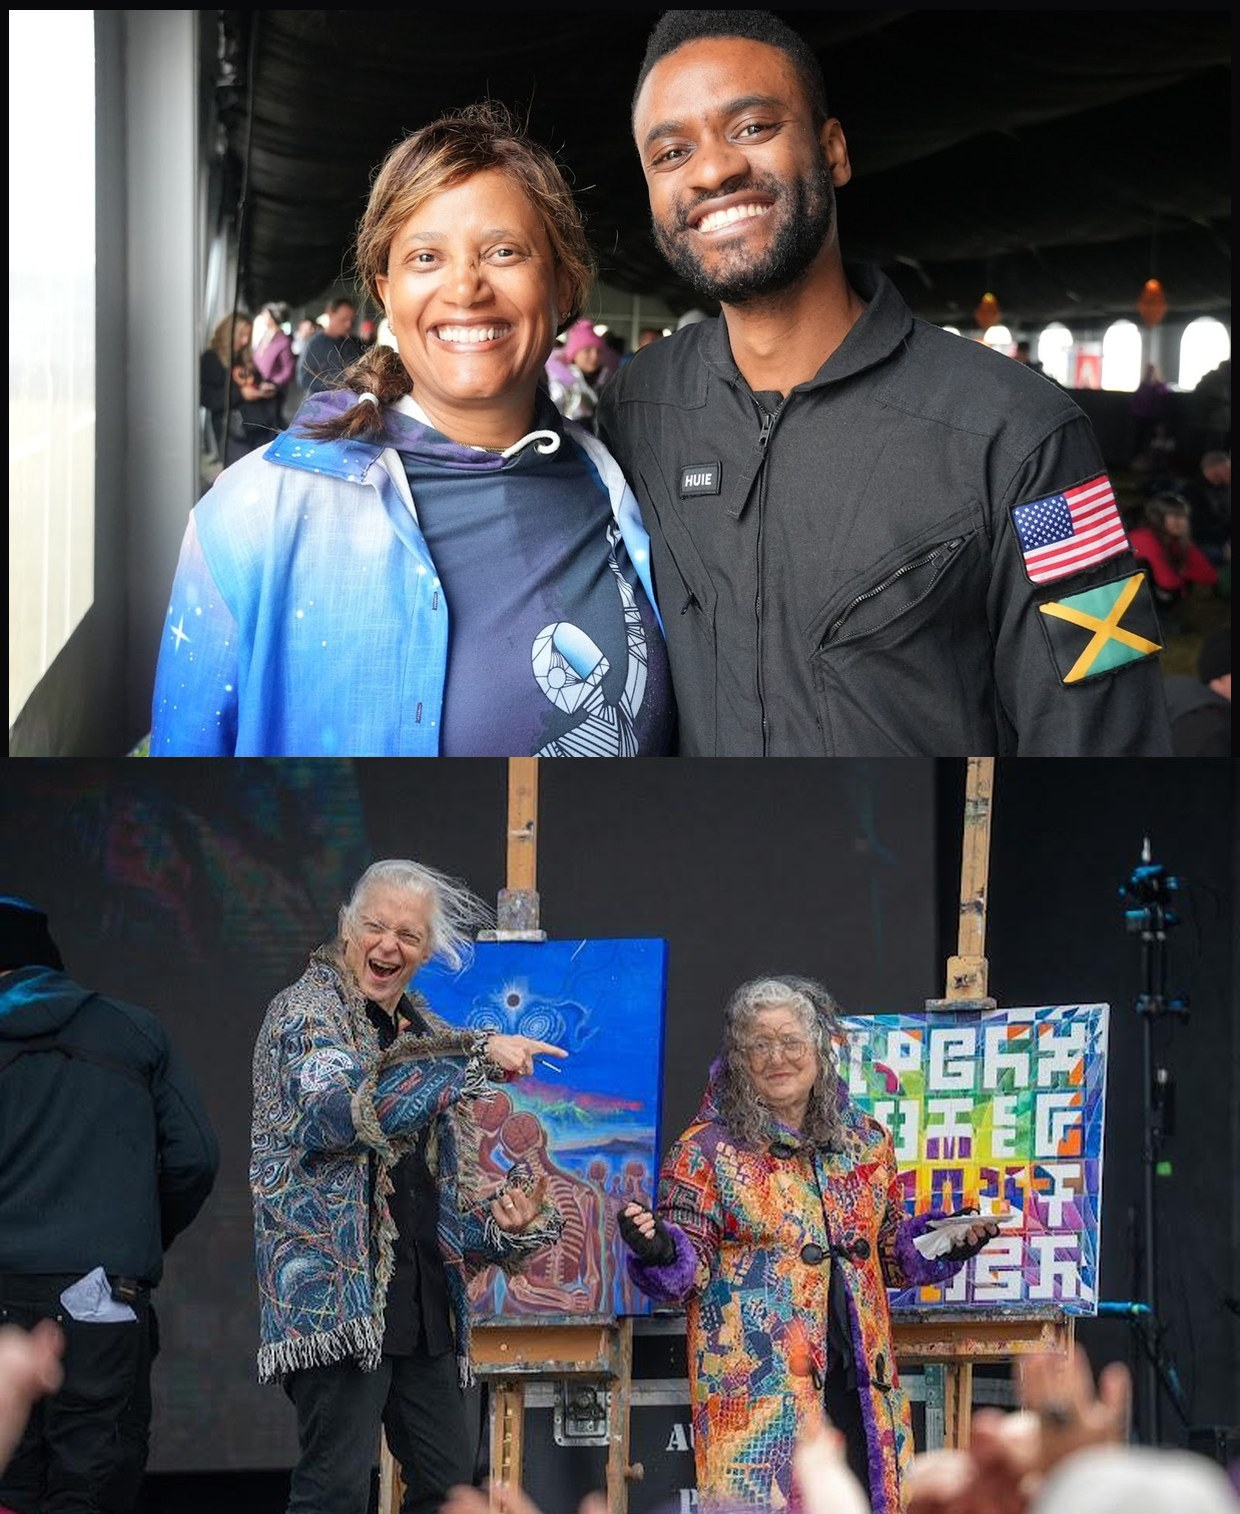
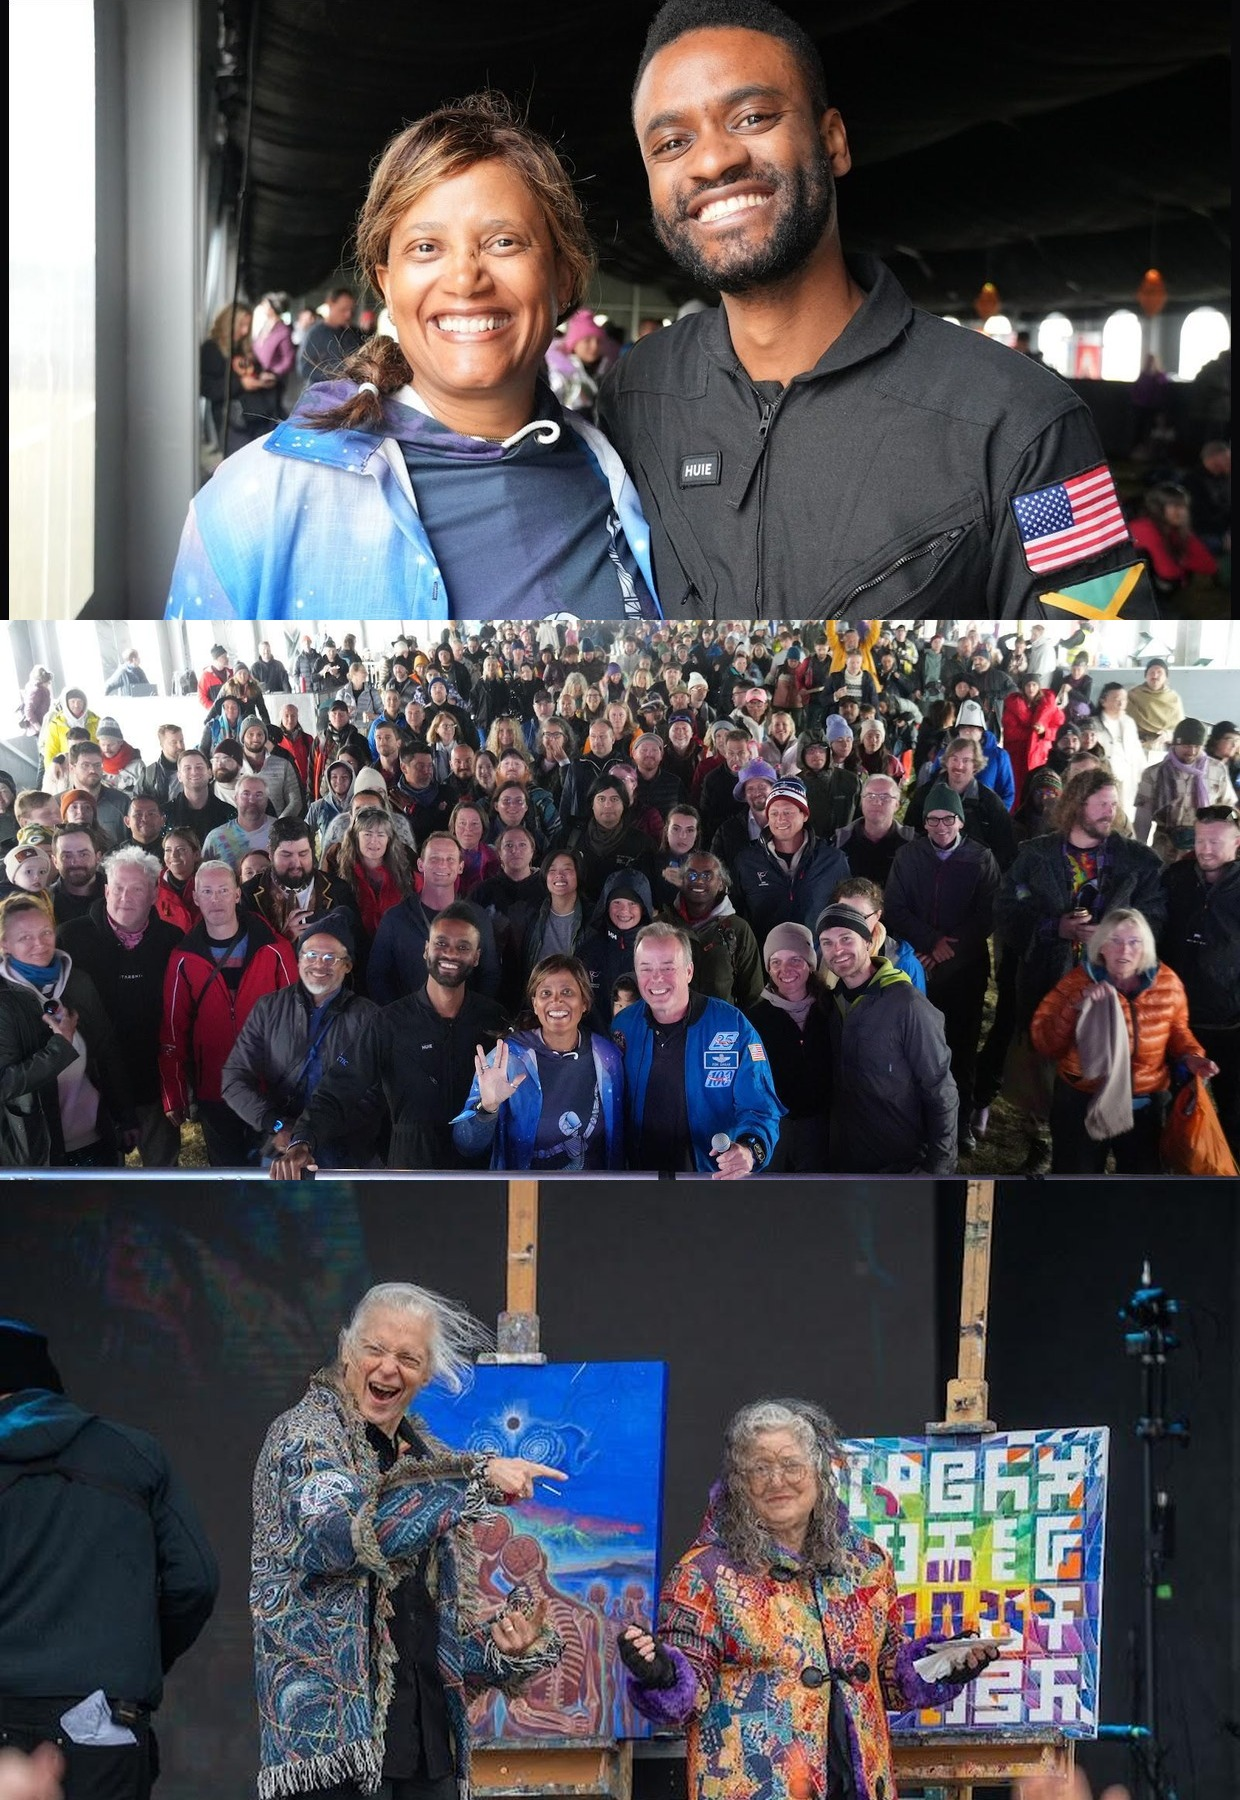
Drop one testimonial; make Our Community a three-layer collage
Remove "My favorite keepsake from Iceland" per Ben's note, leaving five
testimonials, and re-grid so the trailing row of two centres instead of
hanging left.

Add the packed Aurora tent group shot to the Our Community collage,
between the Proctor/Huie portrait and the Greys on stage. The accent slot
for that slide now fits the image rather than cropping it, so all three
panels are shown whole.

diff --git a/index.html b/index.html
@@ -35,6 +35,9 @@
   .accent img{width:100%;height:100%;object-fit:cover;display:block;transition:transform .9s cubic-bezier(.2,.7,.2,1)}
   .slide.active .accent img{animation:slowzoom 9s ease-out both}
   @keyframes slowzoom{from{transform:scale(1.06)}to{transform:scale(1)}}
+  .accent.commcollage{background:none;min-height:0;align-self:stretch;display:flex;justify-content:center;align-items:center}
+  .accent.commcollage img{height:100%;width:auto;max-width:100%;object-fit:contain}
+  .accent.commcollage::after{display:none}
   .accent::after{content:'';position:absolute;inset:0;
     background:linear-gradient(200deg,rgba(9,9,11,0) 55%,rgba(9,9,11,.35));pointer-events:none}
   /* corner logo swaps sides (or hides) per slide instead of shrinking artwork */
@@ -239,12 +242,15 @@
     .voices.vgrid2{grid-template-columns:1fr}
   }
   /* testimonials slide */
-  .voices.vgrid{grid-template-columns:repeat(3,1fr);gap:clamp(1rem,2.4vw,2rem);margin-top:clamp(1.2em,3vh,2em)}
+  .voices.vgrid{grid-template-columns:repeat(6,1fr);gap:clamp(1rem,2.4vw,2rem);margin-top:clamp(1.2em,3vh,2em)}
+  .voices.vgrid .vq{grid-column:span 2}
+  .voices.vgrid .vq:nth-child(4){grid-column:2/span 2}
   .voices.vgrid .vq p{font-size:clamp(.66rem,1.05vw,.92rem);line-height:1.5}
   .voices.vgrid .vq span{font-size:clamp(.46rem,.74vw,.62rem)}
   .voiceslide .softphoto img{opacity:.42}
   .voiceslide .softphoto::after{background:linear-gradient(180deg,rgba(9,9,11,.74) 0%,rgba(9,9,11,.58) 42%,rgba(9,9,11,.82) 100%)}
-  @media (max-width:1024px) and (orientation:portrait){ .voices.vgrid{grid-template-columns:1fr} }
+  @media (max-width:1024px) and (orientation:portrait){ .voices.vgrid{grid-template-columns:1fr}
+    .voices.vgrid .vq,.voices.vgrid .vq:nth-child(4){grid-column:auto} }
   /* press: header + clean image gallery + outlets */
   .press .softphoto img{opacity:.32}
   .press .softphoto::after{background:linear-gradient(120deg,rgba(9,9,11,.9) 0%,rgba(9,9,11,.8) 55%,rgba(9,9,11,.9) 100%)}
@@ -320,6 +326,7 @@
     .pad{overflow-y:auto;justify-content:safe center;padding:9% 6.5%;-webkit-overflow-scrolling:touch}
     .split{display:flex;flex-direction:column;gap:1.1rem;height:auto}
     .accent{display:block;order:-1;flex:none;width:100%;height:auto;min-height:0;max-height:none}
+    .accent.commcollage img{height:auto;width:100%}
     .accent img{height:auto;object-fit:contain}
     .coverwrap{padding:10% 7%}
     h1.word{font-size:clamp(1.5rem,7.4vw,3rem)}
@@ -580,7 +587,6 @@
         <div class="vq"><p>"A fantastic group of future makers."</p><span>@cosmobiologist &middot; 6.1k</span></div>
         <div class="vq"><p>"I love that you captured the beautiful moment we were all having."</p><span>@hippieonahiway &middot; 1.2k</span></div>
         <div class="vq"><p>"Such a cool experience."</p><span>@harley_xcx &middot; 4.1k</span></div>
-        <div class="vq"><p>"My favorite keepsake from Iceland."</p><span>@salenasalinas &middot; 4.6k</span></div>
         <div class="vq"><p>"Amazing work."</p><span>@ascensionacres &middot; 12.1k</span></div>
       </div>
     </div>
@@ -601,7 +607,7 @@
           <div class="tile"><div class="n">53/47</div><div class="l">Male / female split</div></div>
         </div>
       </div>
-      <div class="accent"><img src="assets/community.jpg" alt=""/></div>
+      <div class="accent commcollage"><img src="assets/community.jpg" alt="Iceland Eclipse community: Dr. Sian Proctor with astronaut Huie, the packed Aurora tent, and Alex and Allyson Grey on stage"/></div>
     </div></div>
     <div class="sfoot"><span>Iceland Eclipse 2026 · Recap</span><span>12</span></div>
   </section>

diff --git a/sources/ben-punch-list.md b/sources/ben-punch-list.md
@@ -28,9 +28,9 @@ Status is one of **Done**, **Done, differs**, or **Open**.
 | B8 | p8 Side Quests: like it | Done | Kept, and three of its four images upgraded to real side-quest photography: Emiliana Torrini in the lava cave, sunrise yoga, the grand piano at the waterfall. |
 | B9 | p9: very cool | Done | Digital Reach kept. |
 | B10 | p10: CNN and testimonials are different things, move CNN to the press slide | Done | CNN clip is now on In the Press; Testimonials is standalone and full width. |
-| B11 | p10: change "My favorite keepsake from Iceland" | Done, differs | It was replaced, then came back. @salenasalinas at 4.6k is one of the few guest quotes clearing the 1,000-follower bar Lee set afterwards. Flagging the conflict rather than picking silently. |
-| B12 | p10: add more testimonials | Done | Six on the slide. |
-| B13 | p10: show follower counts "if they have a lot of them" | Done | All six now exceed 1,000 and each count is printed next to the handle. |
+| B11 | p10: change "My favorite keepsake from Iceland" | Done | Dropped entirely on Lee's instruction (2026-09-04). Testimonials now number five, with the last row centred. |
+| B12 | p10: add more testimonials | Done, differs | Five on the slide after B11 was dropped. |
+| B13 | p10: show follower counts "if they have a lot of them" | Done | All five exceed 1,000 and each count is printed next to the handle. |
 | B14 | p11 Our Community: very good | Done | Unchanged. |
 | B15 | p12 Trilogy: looks great | Done | Unchanged, moved after Midnight Sun. |
 | B16 | p13 Ceremonies: move back to the end of the festival section | Done | Now slide 8, last in that section. |
@@ -40,6 +40,5 @@ Status is one of **Done**, **Done, differs**, or **Open**.
 | # | Item | Detail |
 |---|---|---|
 | O1 | **4,200 participants vs 3,333 guests** | The deck says 4,200. imxp.org/iceland-eclipse, IMXP's own published recap, says 3,333 Guests. Mitch reviewed the 4,200 figure on video and did not object, so it was left. These cannot both be right and the deck is public. Needs Mitch to say which number is the real one. |
-| O2 | **Digital Reach figures are not from Google Analytics** | 1.5M page views, 750k unique visitors, 100k+ email, 44k+ Instagram all come from the partnership deck appendix. Mitch asked for real GA numbers off the Iceland Eclipse site. Not yet pulled; needs GA access. |
-| O3 | **Testimonial quality vs follower count** | The >1,000 rule removed the four best-written quotes. What clears the bar is thinner: "Amazing work.", "Such a cool experience." The single best high-follower quote available, @naturalsymphonylive at 9k, is a credited Afterglow performer and so is excluded as talent. If Ben's goal was social proof, the current six deliver it; if it was warmth, the deck got weaker. Lee's call. |
-| O4 | **One Instagram message request unread** | 14 of 15 requests on @imxp_mitch were accepted and mined. The 15th is from an account Mitch has blocked, so Instagram refuses the accept. Unblocking is Mitch's call. |
+| O2 | **Digital Reach figures are not from Google Analytics** | 1.5M page views, 750k unique visitors, 100k+ email, 44k+ Instagram all come from the partnership deck appendix. **Attempted 2026-09-04 via Chrome (Browser 1).** Google Analytics opened already signed in, but that Google account can see exactly one GA account, "Cloon LLC", holding one property (505390702, measurement ID G-82NMBR4YTN) which reports "No data received from your website yet". There is no Iceland Eclipse or icelandeclipse.com property visible from this account, so no real figures could be pulled. Needs either the Google account that owns the Iceland Eclipse property, or someone to grant that account access. |
+| O3 | **Testimonial quality vs follower count** | The >1,000 rule removed the four best-written quotes, and B11 removed a fifth. What clears the bar is thinner: "Amazing work.", "Such a cool experience." The single best high-follower quote available, @naturalsymphonylive at 9k, is a credited Afterglow performer and so is excluded as talent. Five quotes now stand where six did. Live with it, or relax one of the two rules. |

diff --git a/sources/ben-feedback-2026-09-04.md b/sources/ben-feedback-2026-09-04.md
@@ -98,3 +98,21 @@ The Testimonials slide had one extra `</div>`, which pushed its footer outside t
 `<section>`. That footer was therefore never hidden, and painted on top of every other
 slide's footer on every slide. It was visible as doubled, overlapping footer text.
 Fixed; footer text now renders once per slide.
+
+## Lee's follow-ups, 2026-09-04 (later)
+
+- **Dropped @salenasalinas "My favorite keepsake from Iceland"** per Ben's B11, rather
+  than rewriting it. Testimonial wall is now five: @ascensionacres 12.1k,
+  @cosmobiologist 6.1k, @harley_xcx 4.1k, @tinabrummer_balance 1.9k, @hippieonahiway 1.2k.
+  The grid became `repeat(6,1fr)` with each quote spanning two columns and the fourth
+  offset by one, so the trailing row of two sits centred instead of hanging left.
+- **Our Community collage is now three layers.** Lee supplied the packed-Aurora-tent group
+  shot (Dr. Sian Proctor doing the Vulcan salute with astronauts at the barrier, several
+  hundred guests behind). It sits between the existing two panels: Sian Proctor with
+  astronaut Huie on top, Alex and Allyson Grey on stage below. Rebuilt as 1240x1800 with
+  no divider line. The accent slot for this slide switched from `object-fit:cover` to a
+  `contain` layout (`.accent.commcollage`) so a taller collage is shown whole rather than
+  centre-cropped.
+- **Google Analytics attempt failed.** See O2 in `ben-punch-list.md`. The signed-in account
+  has no Iceland Eclipse property.
+- **Blocked Instagram message request dropped** from the punch list at Lee's instruction.
